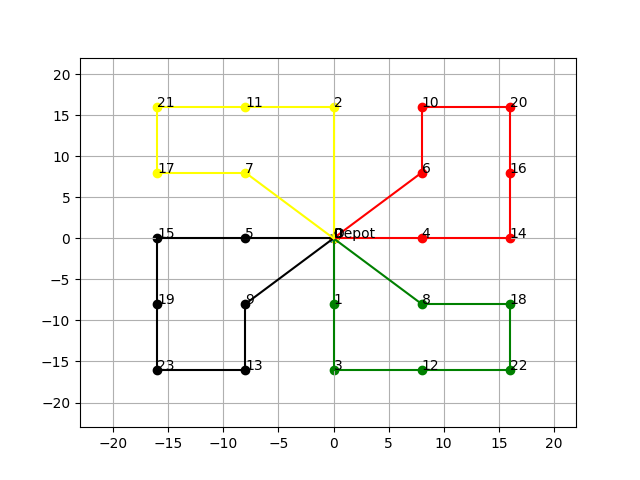
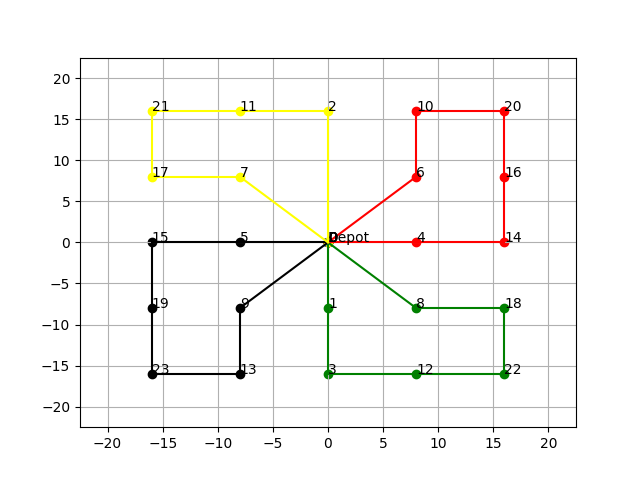
Event Handler

diff --git a/mtsp_data.py b/mtsp_data.py
@@ -11,22 +11,53 @@ import numpy as np
 # import matplotlib
 # matplotlib.use('Agg') #Using Non-interactive backend
 
-
-
-
+num_uav = 3
+num_ugv = 1
 grid_size = 3
-i_coords, j_coords = np.meshgrid(range(grid_size), range(grid_size), indexing='ij')
-coordinate_grid = np.array([i_coords, j_coords])
-# print(xlim, ylim)
 
-num_locations = 47
-num_vehicles = 4
+
 depot = [0,0]
-# start_pt = []
 
-def create_distmat(num_loc):
-    locations = []
+
+class Task:
+    def __init__(self, identity, location):
+        self.identity = identity
+        self.location = location
+        self.params = params # Quantification of the task
+
+class Agent:
+    def __init__(self, identity, location):
+        self.identity = identity
+        self.location = location
+        self.status = status # Free/Operational/Failed
+
+class Event:
+    def __init__(self, name, location):  
+        self.name = name
+        self.location = location
+
+
+def event_handler(event, locations, num_vehicles):
+    if event=="New":
+        new_x = int(input("Enter X Co-ordinate: "))
+        new_y = int(input("Enter Y Co-ordinate: "))
+        if (new_x!=0 and new_y!=0):
+            # locations = data['locations']
+            locations.append([new_x, new_y])
+            # data['locations'] = locations
+            # print(len(data['locations']))
+    if event=="Failed":
+        num_vehicles = int(input("Number of Operational Vehicles: "))
+        # data['num_vehicles'] = num_vehicles
+
+    return locations, num_vehicles
+
+def location_handler():
     # locations = [[random.randint(-grid_size,grid_size) for i in range(2)] for j in range(num_loc + 1)]
+    locations = []
+    
+    i_coords, j_coords = np.meshgrid(range(grid_size), range(grid_size), indexing='ij')
+    coordinate_grid = np.array([i_coords, j_coords])
     for i in range(grid_size):
         for j in range(grid_size):
             loc_x = 8*coordinate_grid[:, i, j][0]
@@ -46,30 +77,26 @@ def create_distmat(num_loc):
                 locations.append([loc_x, -loc_y])
                 locations.append([-loc_x, -loc_y])
 
-    # print locations
-    # print len(locations)
-
     locations[0] = depot #Depot Location
+    return locations
+
+def create_distmat(locations):
     distMat = [ [ 0 for i in range(len(locations)) ] for j in range(len(locations)) ] 
     for i in range(len(locations)):
         for j in range(len(locations)):
             dist = int(math.sqrt((locations[j][0] - locations[i][0])**2 + (locations[j][1] - locations[i][1])**2))
             distMat[i][j] = dist
-    
-    # for i in range(num_vehicles):
-        # start_pt.append([random.randint(-grid_size,grid_size), random.randint(-grid_size,grid_size)])
-        # distMat[i][i] = int(math.sqrt((start_pt[i][0] - depot[0])**2 + (start_pt[i][1] - depot[1])**2))
-    # print distMat
-    # print start_pt
-    return distMat, locations
+    return distMat
 
 
-def create_data_model():
+def create_data_model(locations, num_vehicles):
     """Stores the data for the problem."""
     data = {}
-
+    
     data['num_vehicles'] = num_vehicles
-    data['distance_matrix'], data['locations'] = create_distmat(num_locations)
+    data['distance_matrix'] = create_distmat(locations)
+    data['locations'] = locations
+    print(len(data['locations']))
     data['depot'] = 0
     return data
 
@@ -98,11 +125,36 @@ def print_solution(data, manager, routing, solution):
     print('Maximum of the route distances: {}m'.format(max_route_distance))
     return route_map
 
-def main():
+def plot_solution(data, route_map):
+    #Plotter Variable
+    plt.figure()
+    colors = ["black", "green", "red", "yellow", "blue", "cyan", "magenta", "olive", "orange", "tomato"]
+    plt.grid()
+    lim = max(max(data['distance_matrix']))
+    plt.xlim(-lim/2, lim/2) #Xlim should be the max of xLoc
+    plt.ylim(-lim/2, lim/2) #YLim should be the max of yLoc
+    plt.plot(data['locations'][0][0], data['locations'][0][1], 'x')
+    plt.text(data['locations'][0][0], data['locations'][0][1], 'Depot', fontsize='10')
+    
+    for i in range(len(route_map)-1):
+        x_values = [data['locations'][route_map[i][1]][0], data['locations'][route_map[i+1][1]][0]]
+        y_values = [data['locations'][route_map[i][1]][1], data['locations'][route_map[i+1][1]][1]]
+        # print(data['locations'][route_map[i][1]])
+        plt.scatter(data['locations'][route_map[i][1]][0], data['locations'][route_map[i][1]][1],  c=colors[route_map[i][0]])
+        plt.plot(x_values, y_values, c=colors[route_map[i][0]])
+        plt.text(data['locations'][route_map[i][1]][0], data['locations'][route_map[i][1]][1], route_map[i][1], fontsize='10')
+        plt.pause(0.05)
+    # plt.savefig('plot.png')
+    # plt.show()
+    # plt.matshow(data['distance_matrix'])
+    # plt.colorbar()
+    # plt.savefig('dist_mat.png')
+
+def mtsp_solver(data):
     """Solve the CVRP problem."""
     # Instantiate the data problem.
     start_time = datetime.now()
-    data = create_data_model()
+    
 
     # Create the routing index manager.
     manager = pywrapcp.RoutingIndexManager(len(data['distance_matrix']),
@@ -146,34 +198,21 @@ def main():
     end_time = datetime.now()
     exec_time = end_time-start_time
     print('Execution Time: %s' % (exec_time))
-
-    # Print solution on console.
-    colors = ["black", "green", "red", "yellow", "blue", "cyan", "magenta", "olive", "orange", "tomato"]
-    plt.grid()
-    lim = max(max(data['distance_matrix']))
-    plt.xlim(-lim/2, lim/2) #Xlim should be the max of xLoc
-    plt.ylim(-lim/2, lim/2) #YLim should be the max of yLoc
-    # for i in range (num_vehicles):
-    #     plt.plot(start_pt[i][0], start_pt[i][1], 'o')
-
-
-    plt.plot(data['locations'][0][0], data['locations'][0][1], 'x')
-    plt.text(data['locations'][0][0], data['locations'][0][1], 'Depot', fontsize='10')
     if solution:
         route_map = print_solution(data, manager, routing, solution)
-        for i in range(len(route_map)-1):
-           x_values = [data['locations'][route_map[i][1]][0], data['locations'][route_map[i+1][1]][0]]
-           y_values = [data['locations'][route_map[i][1]][1], data['locations'][route_map[i+1][1]][1]]
-           plt.scatter(data['locations'][route_map[i][1]][0], data['locations'][route_map[i][1]][1],  c=colors[route_map[i][0]])
-           plt.plot(x_values, y_values, c=colors[route_map[i][0]])
-           plt.text(data['locations'][route_map[i][1]][0], data['locations'][route_map[i][1]][1], route_map[i][1], fontsize='10')
-           plt.pause(0.05)
-    plt.savefig('plot.png')
-    # plt.show()
-    plt.matshow(data['distance_matrix'])
-    plt.colorbar()
-    # plt.show()
-    plt.savefig('dist_mat.png')
+    return route_map
+
+def main():
+    for i in range(3):
+        locations = location_handler()
+        num_vehicles = num_uav + num_ugv
+        event_type = str(input("Type of event: [No/New/Failed] : "))
+        locations, num_vehicles = event_handler(event_type, locations, num_vehicles)
+        data = create_data_model(locations, num_vehicles)
+        route_map = mtsp_solver(data)
+        plot_solution(data, route_map)
+    
+    input("Press [Enter] to Exit!")
 
 
 
